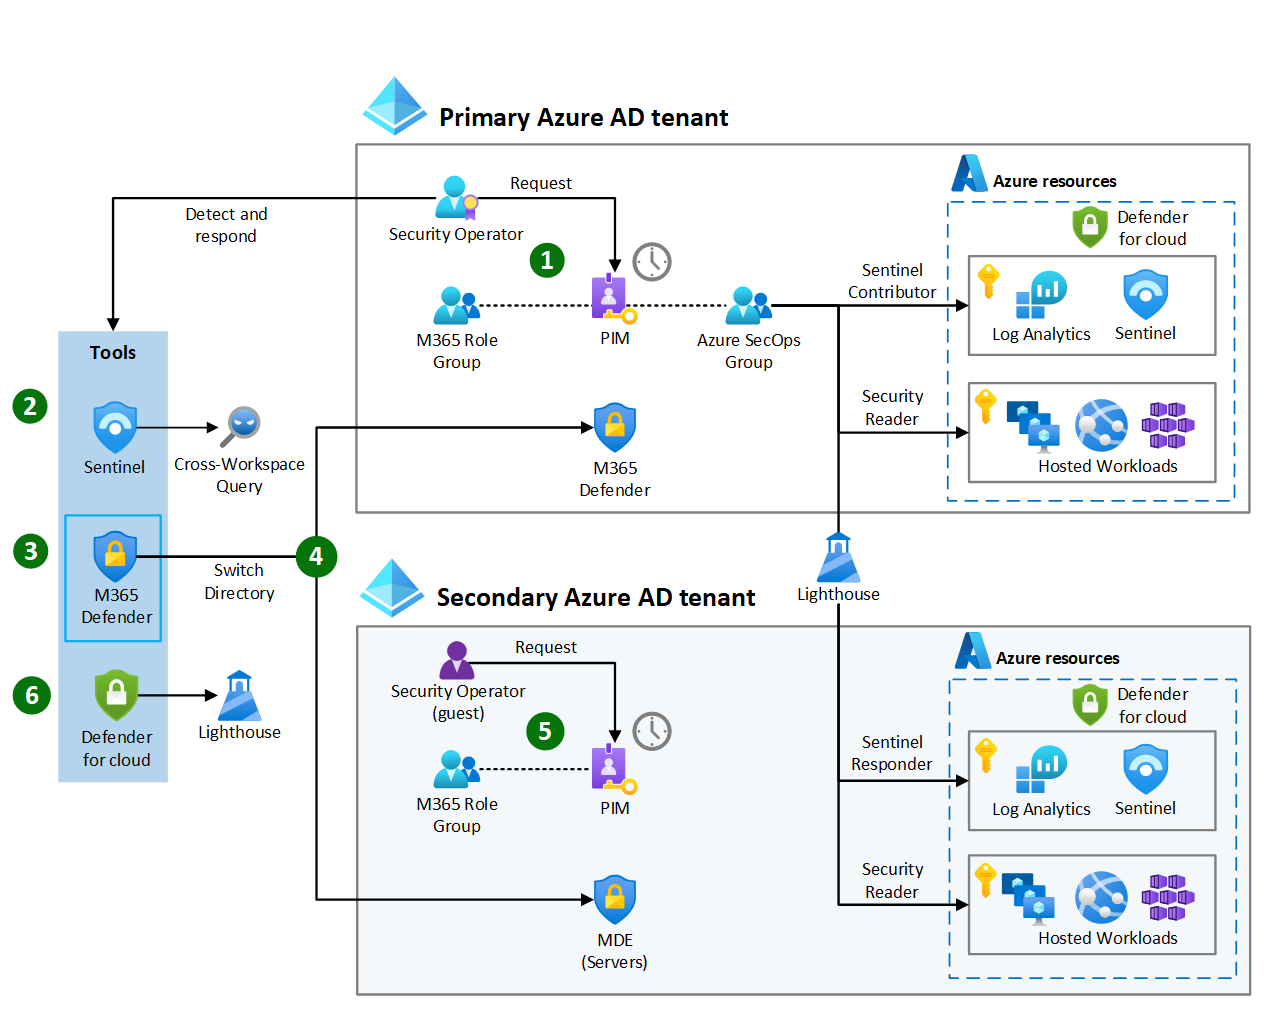
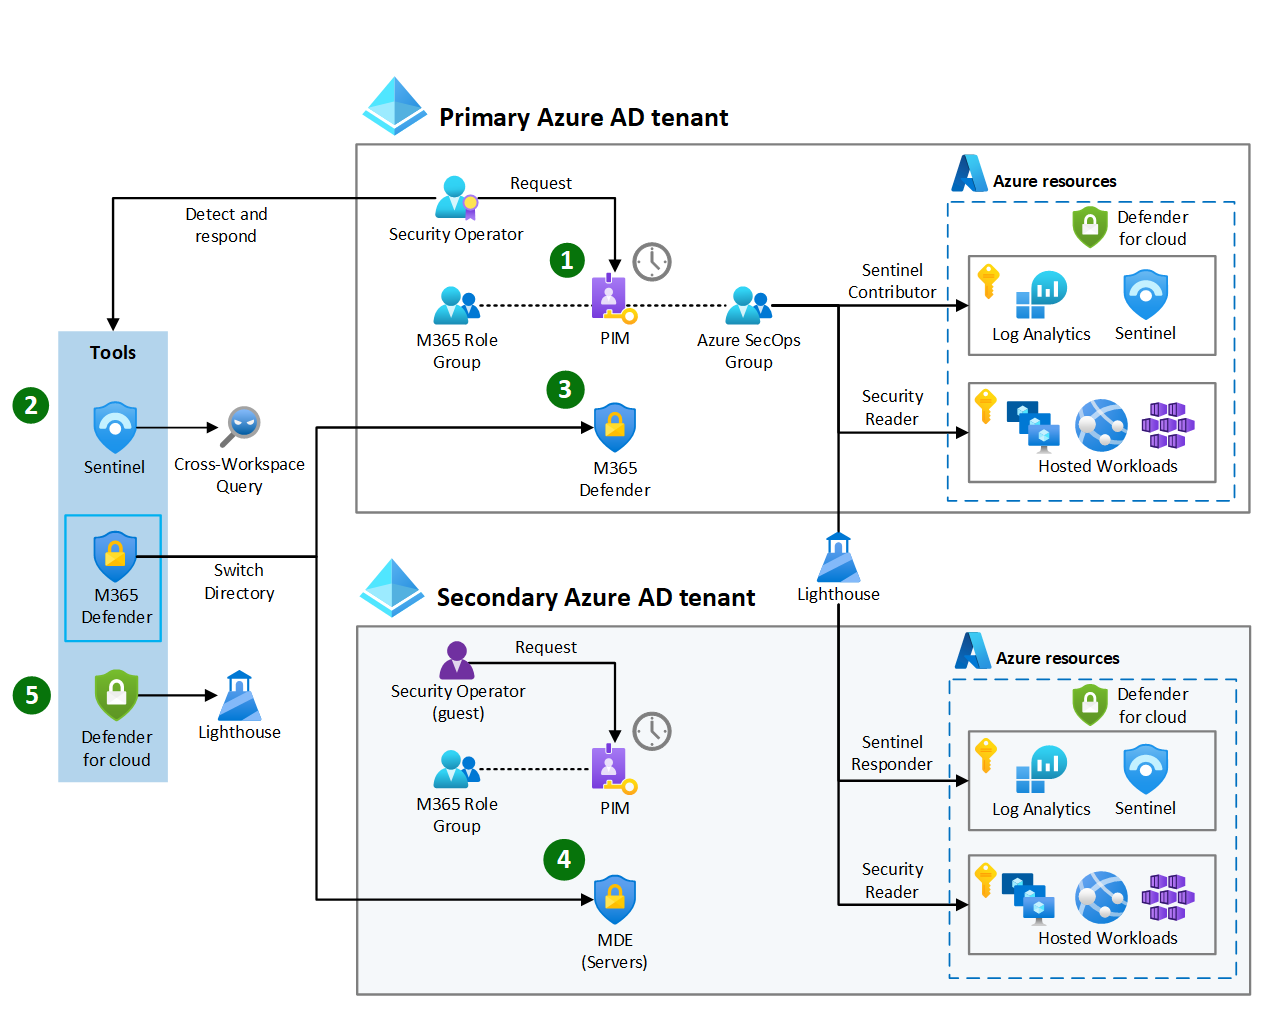
updates

diff --git a/docs/scenarios/defense/identity/multi-tenant/security-operations.md b/docs/scenarios/defense/identity/multi-tenant/security-operations.md
@@ -39,7 +39,7 @@ To set up centralized security operations for a multi-tenant environment, you mu
 
 **2. Configure PIM for Azure security operations.** Create a [role-assignable group](/azure/active-directory/roles/groups-concept) (Azure SecOps in *Figure 1*) and permanently assign the group to Azure RBAC roles the security operators need. The example uses [Microsoft Sentinel Contributor](/azure/sentinel/roles) and [Security Reader](/azure/role-based-access-control/built-in-roles#security-reader), but you might also consider [Logic App Contributor](/azure/role-based-access-control/built-in-roles#logic-app-contributor) and [other roles](/azure/role-based-access-control/built-in-roles) they need. Configure [PIM for Groups](/azure/active-directory/privileged-identity-management/concept-pim-for-groups) to assign Security Operators as eligible for the Azure SecOps group. This approach lets the Security Operator elevate access for all the RBAC roles they need in one PIM request. Configure permanent RBAC role assignments for read access if necessary.
 
-**3. Configure PIM for Microsoft 365 Defender security operations.** Create a [role-assignable group](/azure/active-directory/roles/groups-concept) (Microsoft 365 Role Group in *Figure 1*) for assigning [Microsoft 365 Defender permissions](/microsoft-365/security/defender/manage-rbac). Next create a [PIM role](/azure/active-directory/privileged-identity-management/concept-pim-for-groups) for Microsoft 365 Role Group and assign eligibility for the Security Operator. If you don't want to manage multiple roles, you can use the same group (Azure SecOps) configured in step 1 to assign Microsoft 365 Defender permissions and Azure RBAC roles.
+**3. Configure PIM for Microsoft 365 Defender security operations.** Create a [role-assignable group](/azure/active-directory/roles/groups-concept) (Microsoft 365 Role Group in *Figure 1*) for assigning [Microsoft 365 Defender permissions](/microsoft-365/security/defender/manage-rbac). Next create a [PIM role](/azure/active-directory/privileged-identity-management/concept-pim-for-groups) for Microsoft 365 Role Group and assign eligibility for the Security Operator. If you don't want to manage multiple roles, you can use the same group (Azure SecOps) you configured in step 1 to assign Microsoft 365 Defender permissions and Azure RBAC roles.
 
 **4. Configure Azure Lighthouse**. Use [Azure Lighthouse](/azure/lighthouse/overview) to assign RBAC roles for Secondary tenant Azure resource subscriptions. Use the object ID of the Azure SecOps group and the tenant ID of the primary tenant. The example in *Figure 1* uses [Microsoft Sentinel Responder](/azure/sentinel/roles) and [Security Reader](/azure/role-based-access-control/built-in-roles#security-reader) roles. Configure permanent RBAC role assignments for read access if necessary.
 
@@ -47,16 +47,22 @@ To set up centralized security operations for a multi-tenant environment, you mu
 
 ## Manage centralized security operations
 
-Security operators need accounts and eligible access to secure the environment and respond to threats. Security operators should know which roles they're eligible for and how to elevate their permissions using Azure AD PIM. For Microsoft 365 Defender, specifically Microsoft Defender for Endpoint, they must know how to switch between tenants to hunt and respond to threats using MDE. *Figure 1* shows a multi-tenant security operations setup. Security operator can use their access to monitor, investigate, and respond to threats across Microsoft 365 and Azure across Azure AD tenants (*see figure 2*).
+Security operators need accounts and eligible access to secure the environment and respond to threats. Security operators should know which roles they're eligible for and how to elevate their permissions using Azure AD PIM. For Microsoft Defender for Endpoint (MDE), they must know how to switch between tenants to hunt and respond to threats using MDE.
+
+Security operators use the multi-tenant security operations setup (*see figure 1*) to secure multiple tenants. They can monitor, investigate, and respond to threats across Microsoft 365 and Azure across Azure AD tenants (*see figure 2*).
 
 :::image type="content" source="./images/lighthouse-operations.png" alt-text="Diagram showing multi-tenant security operations for Sentinel, Microsoft 365 Defender, Defender for Cloud." lightbox="./images/lighthouse-operations.png" border="false":::
-*Figure 2. Multi-tenant security operations for Sentinel, Microsoft 365 Defender, Defender for Cloud.*
+*Figure 2. How to use a multi-tenant security operations setup.*
 
-1. **Request Sentinel and Defender for cloud access.** The security operator needs to sign into the Azure portal to [request and activate](/azure/active-directory/privileged-identity-management/pim-how-to-activate-role) the Azure SecOps role using PIM.
-2. **Sentinel operations across workspaces and tenants.** After you activate the Azure SecOps role, the security operator can navigate to Microsoft Sentinel and perform operations [across tenants](/azure/sentinel/extend-sentinel-across-workspaces-tenants). Since data connectors for [Microsoft 365 Defender](/azure/sentinel/connect-microsoft-365-defender) and [Defender for Cloud](/azure/sentinel/connect-defender-for-cloud) are connected to both Sentinel instances and Azure Lighthouse is configured, the security operator can start all incident management, investigations, and event correlation here.
-3. **Pivot to Microsoft 365 Defender.** The security operator sees a Sentinel alert was created based on a Microsoft Defender for Endpoint detection. The detection is for a workstation and is coming from MDE in the primary tenant.  The security operator activates their Microsoft 365 Role using PIM. This group membership assigns permissions needed to respond to the security threat. The security operator pivots to the Microsoft 365 Defender portal and [takes a response action](/microsoft-365/security/defender-endpoint/respond-machine-alerts) to isolate the device.
-4. **Multi-tenant operations for Microsoft 365 Defender.** Later on, the security operator sees several Sentinel alert for an Azure virtual machine running in a subscription attached to the secondary tenant. Defender for Endpoint detected a malicious payload was executed on the server. The security operator wants to conduct a live response using MDE. In the Azure portal, the security operator [switches directories](/azure/azure-portal/get-subscription-tenant-id) to the secondary tenant and uses PIM to activate the Microsoft 365 Role Group in the secondary tenant. The operator navigates to the Microsoft 365 Defender portal for the secondary tenant. The security operator uses a bookmarked link containing the secondary tenant ID in the URL: `https://security.microsoft.us/homepage`. The security operator can [initiate a live response](/microsoft-365/security/defender-endpoint/troubleshoot-collect-support-log) to collect logs from the server.
-5. **Use Lighthouse to manage Defender for Cloud across tenants.** After you remediate the threat to the Azure virtual machine, the security operator wants to check Defender for Cloud recommendations. The operator uses the Azure portal to [switch directories](/azure/azure-portal/get-subscription-tenant-id) back to the primary tenant. Since Azure Lighthouse is set up, the security operators can find secondary tenant Azure resources from the primary tenant. Defender for Cloud shows several recommendations, including enabling just-in-time virtual machine access. The management ports accessible via the internet. The security operator must contact the secondary tenant infrastructure management team to remediate the vulnerability. They should create an Azure Policy to block deployment if virtual machines have management ports accessible via the internet.
+**1. Request Sentinel and Defender for cloud access.** The security operator needs to sign into the Azure portal to [request and activate](/azure/active-directory/privileged-identity-management/pim-how-to-activate-role) the Azure SecOps role using PIM.
+
+**2. Use Sentinel across workspaces and tenants.** After you activate the Azure SecOps role, the security operator can navigate to Microsoft Sentinel and perform operations [across tenants](/azure/sentinel/extend-sentinel-across-workspaces-tenants). Data connectors for [Microsoft 365 Defender](/azure/sentinel/connect-microsoft-365-defender) and [Defender for Cloud](/azure/sentinel/connect-defender-for-cloud) connect to the Sentinel instance in the primary tenant and secondary tenant. The setup also uses Azure Lighthouse. With the data connectors and Azure Lighthouse, security operator can start all incident management, investigations, and event correlation in Sentinel.
+
+**3. Use Microsoft 365 Defender in the primary tenant to respond to workstation threats.** The security operator must activate their Microsoft 365 Role using PIM. This group membership assigns permissions needed to respond to the security threat. The security operator must pivot to the Microsoft 365 Defender portal and [take a response action](/microsoft-365/security/defender-endpoint/respond-machine-alerts) to isolate the device.
+
+**4. Use Microsoft 365 Defender in the secondary tenant to respond to server threats.** The security operator should conduct a live response using MDE. In the Azure portal, the security operator must [switch to the secondary tenant directory](/azure/azure-portal/get-subscription-tenant-id). The security operator must use PIM to activate the Microsoft 365 Role Group in the secondary tenant. The operator should navigate to the Microsoft 365 Defender portal for the secondary tenant. The security operator should use a bookmarked link containing the secondary tenant ID in the URL: `https://security.microsoft.us/homepage?tid=<tenantID>`. The security operator can [initiate a live response](/microsoft-365/security/defender-endpoint/troubleshoot-collect-support-log) to collect logs from the server.
+
+**5. Use Lighthouse to manage Defender for Cloud across tenants.** The security operator should check Defender for Cloud recommendations. The operator needs to use the Azure portal to [switch directories](/azure/azure-portal/get-subscription-tenant-id) back to the primary tenant. Azure Lighthouse enables the security operator to find secondary tenant Azure resources from the primary tenant. Defender for Cloud might show several recommendations. These recommendations might be enabling just-in-time virtual machine access and the management ports accessible via the internet. The security operator must contact the secondary tenant infrastructure management team to remediate the vulnerability. They should create an Azure Policy to block deployment if virtual machines have management ports accessible via the internet.
 
 ## Other security operations patterns
 
